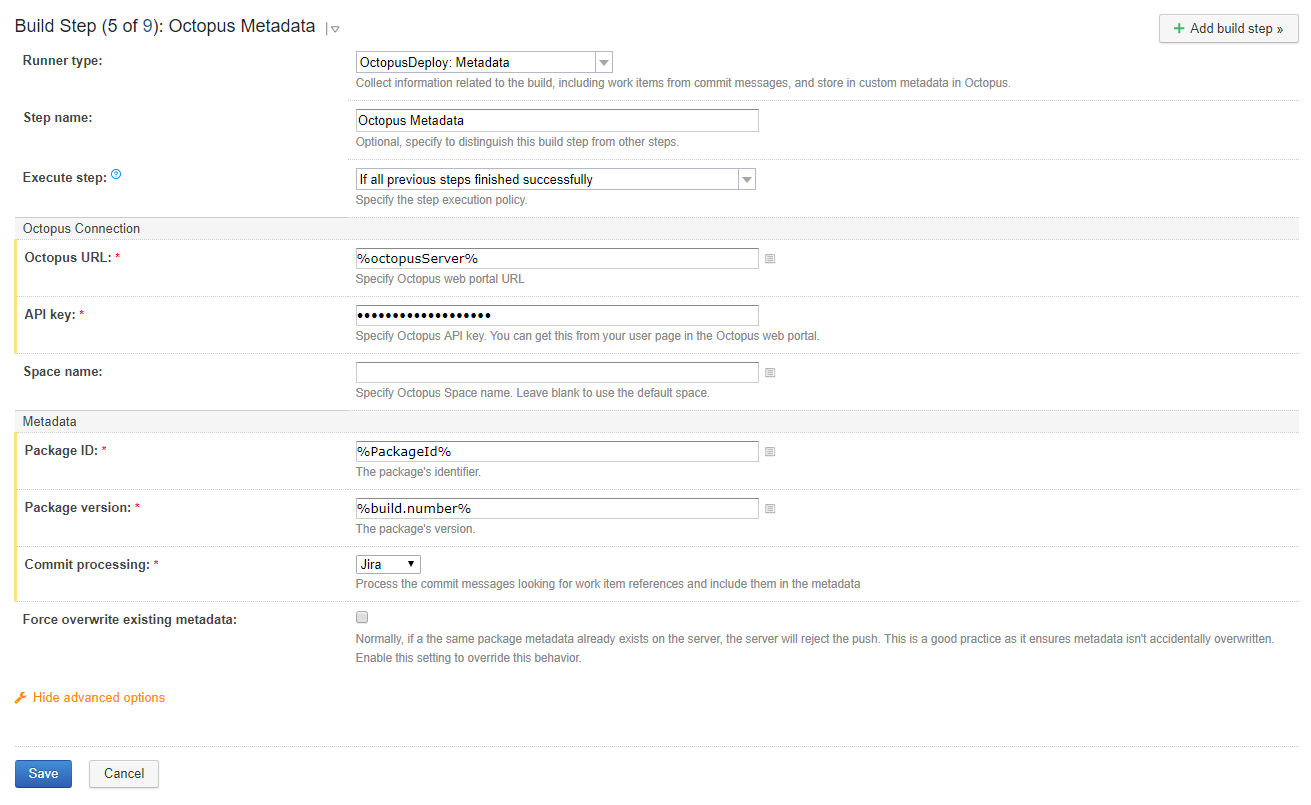
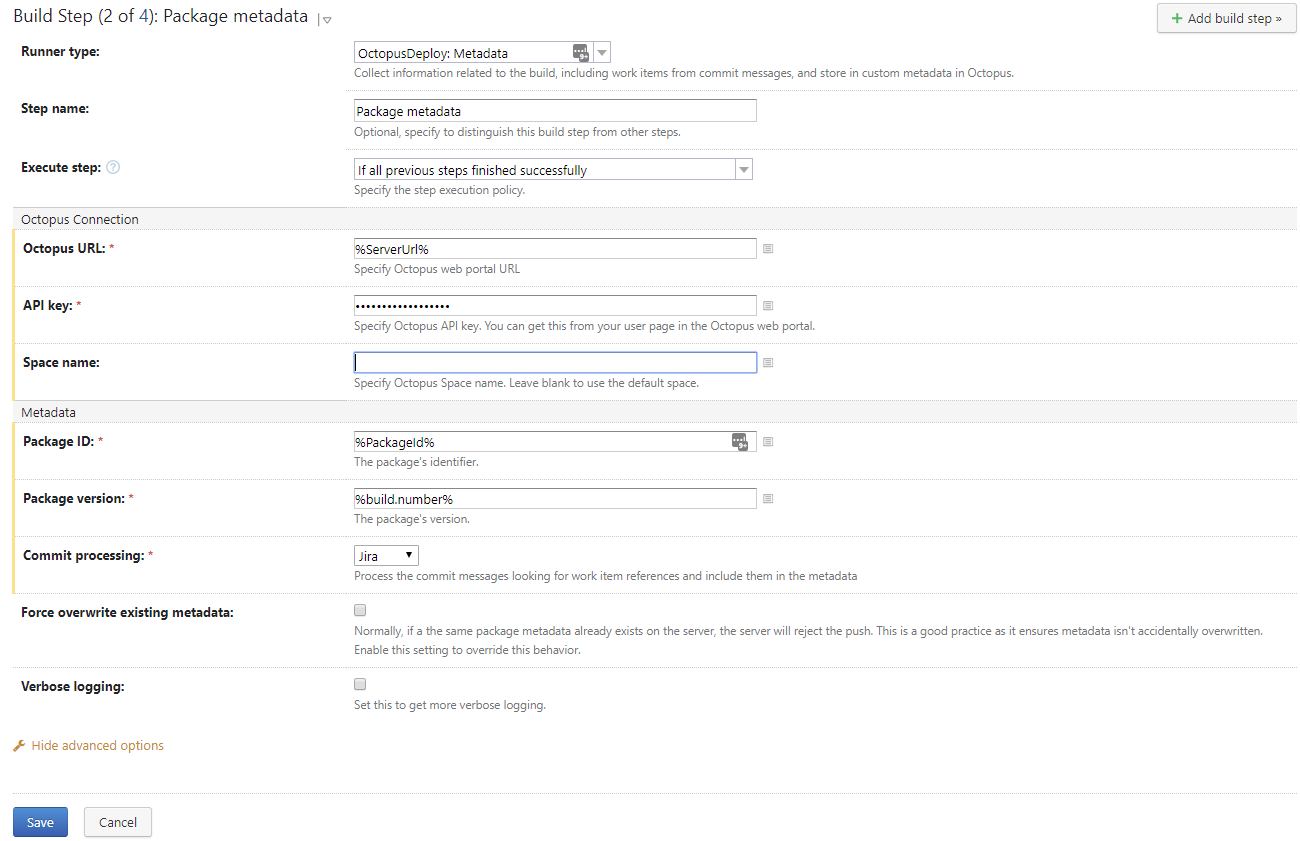
Updated TeamCity package metadata step image, to include the Verbose logging switch, which is now also referenced in the text

diff --git a/docs/packaging-applications/build-servers/index.md b/docs/packaging-applications/build-servers/index.md
@@ -42,6 +42,12 @@ The TeamCity version of the _Build Information_ step is shown below.
 
 ![TeamCity Build Information Step](images/metadata-step.png)
 
+:::hint
+
+The Verbose logging option can be used to include more detail in the build logs. This includes a complete output of all of the build information being passed to Octopus, which can be very helpful when troubleshooting.
+
+:::
+
 ## Viewing Build Information
 
 The build information for a package can be viewed on any release which contains the package.
